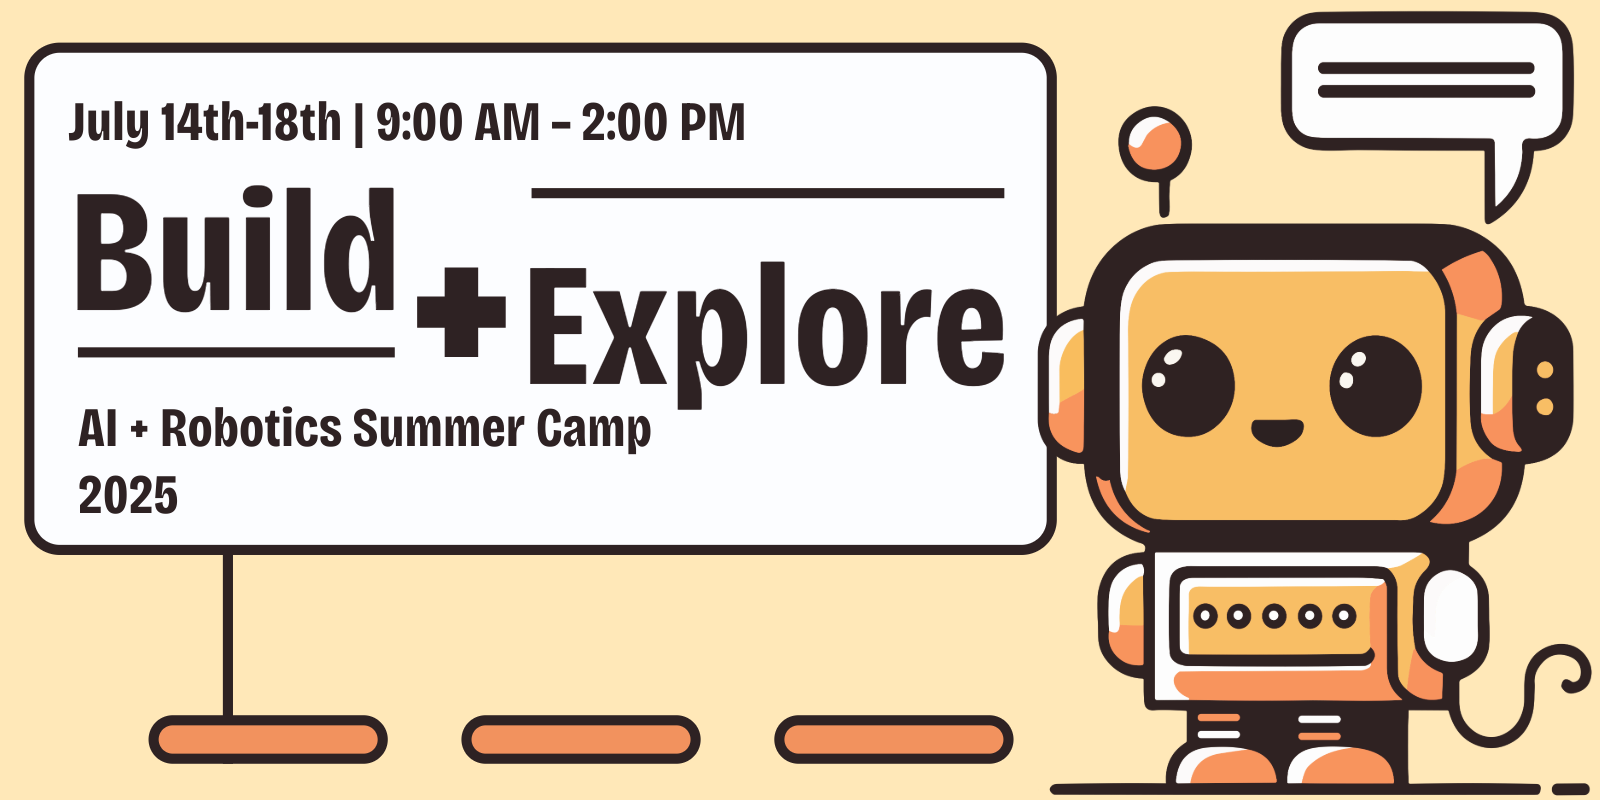
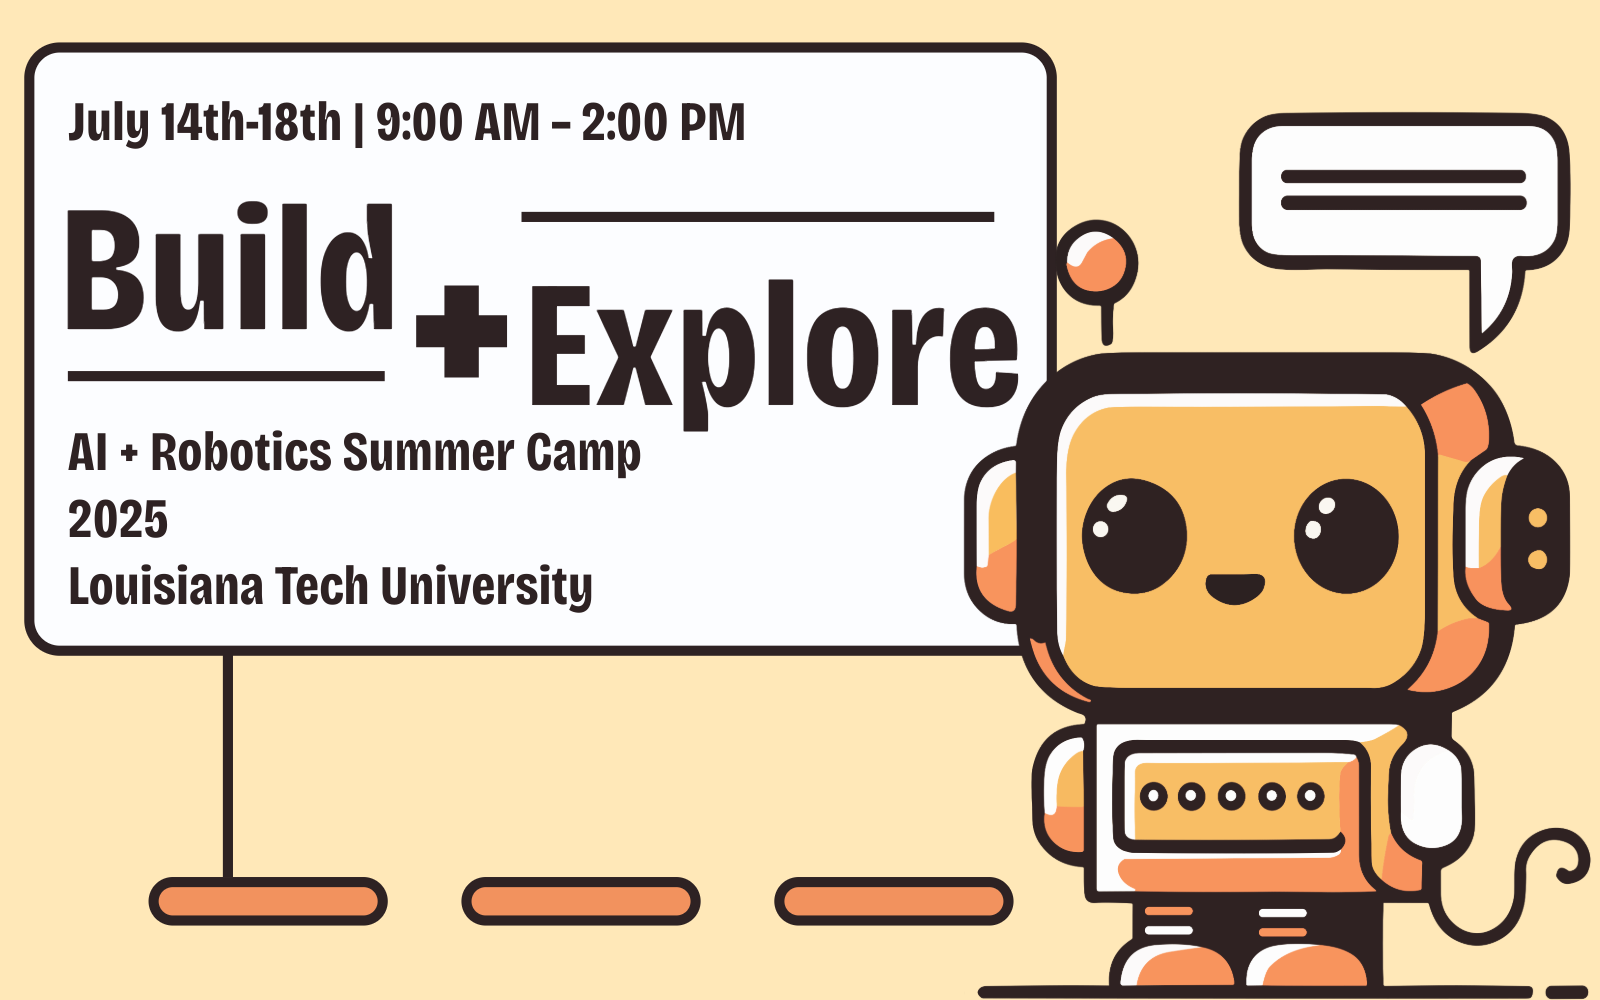
edit index

diff --git a/index.html b/index.html
@@ -270,8 +270,11 @@
                             <!--July 2025-->
                             <tr>
                               <td style="padding:20px;width:25%;vertical-align:middle">
-                                <div class="three">
-                                  <img src='images/news/2025/vertical_poster.png' width=160>
+                                <div class="three image-slider">
+                                  <button class="slider-btn prev-btn">&#10094;</button>
+                                  <img src="images/news/2025/vertical_poster.png" class="slider-img active">
+                                  <img src="images/news/2025/group_photo.png" class="slider-img">
+                                  <button class="slider-btn next-btn">&#10095;</button>
                                 </div>
                               </td>
 
@@ -282,11 +285,11 @@
                                       <span class="papertitle">July 2025</span>
                                     </div>
                                     <div style="margin-top: 0.5em;">
-                                      <li style="margin: 0;">
-                                        📄 <strong>07-03</strong>: Our <b><i>Paper</i></b> on polymer recovery stress prediction is accepted on <a href="https://www.sciencedirect.com/journal/polymer">Polymer</a>
-                                      </li>
                                       <li>
                                         🎤 <strong>07-14</strong>: We host a <b><i>Robotic Summer Camp</i></b> at LaTech in 2025.
+                                      </li>
+                                      <li style="margin: 0;">
+                                        📄 <strong>07-16</strong>: Our <b><i>Paper</i></b> on polymer recovery stress prediction is published on <a href="https://www.sciencedirect.com/journal/polymer">Polymer</a>.
                                       </li>
                                     </div>
                                   </div>
@@ -298,7 +301,7 @@
                             <tr>
                               <td style="padding:20px;width:25%;vertical-align:middle">
                                 <div class="three">
-                                  <img src='images/news/2025/ieee_logo.png' width=160>
+                                  <img src='images/news/2025/research_talk.png' width=160>
                                 </div>
                               </td>
 
@@ -325,8 +328,11 @@
                             <!--April 2025-->
                             <tr>
                               <td style="padding:20px;width:25%;vertical-align:middle">
-                                <div class="three">
-                                  <img src='images/news/2025/medium_cover.png' width=160>
+                                <div class="three image-slider">
+                                  <button class="slider-btn prev-btn">&#10094;</button>
+                                  <img src="images/news/2025/medium_cover.png" class="slider-img active">
+                                  <img src="images/news/2025/funding_projects.png" class="slider-img">
+                                  <button class="slider-btn next-btn">&#10095;</button>
                                 </div>
                               </td>
 
@@ -360,8 +366,12 @@
                             <!--March 2025-->
                             <tr>
                               <td style="padding:20px;width:25%;vertical-align:middle">
-                                <div class="three">
-                                  <img src='images/news/2025/panel_talk.png' width=160>
+                                <div class="three image-slider">
+                                  <button class="slider-btn prev-btn">&#10094;</button>
+                                  <img src="images/news/2025/panel_talk.png" class="slider-img active">
+                                  <img src="images/news/2025/mdpi_math.png" class="slider-img">
+                                  <img src="images/news/2025/airc_conference.png" class="slider-img">
+                                  <button class="slider-btn next-btn">&#10095;</button>
                                 </div>
                               </td>
 
@@ -396,8 +406,11 @@
                             <!--Feb 2025-->
                             <tr>
                               <td style="padding:20px;width:25%;vertical-align:middle">
-                                <div class="three">
-                                  <img src='images/news/2025/fuel_logo.png' width=160>
+                                <div class="three image-slider">
+                                  <button class="slider-btn prev-btn">&#10094;</button>
+                                  <img src="images/news/2025/fuel_logo.png" class="slider-img active">
+                                  <img src="images/news/2025/ieee_southeastcon.png" class="slider-img">
+                                  <button class="slider-btn next-btn">&#10095;</button>
                                 </div>
                               </td>
 
@@ -426,8 +439,11 @@
                             <!--Jan 2025-->
                             <tr>
                               <td style="padding:20px;width:25%;vertical-align:middle">
-                                <div class="three">
-                                  <img src='images/news/2025/elsevier_logo.png' width=160>
+                                <div class="three image-slider">
+                                  <button class="slider-btn prev-btn">&#10094;</button>
+                                  <img src="images/news/2025/elsevier_logo.png" class="slider-img active">
+                                  <img src="images/news/2025/fuel_logo.png" class="slider-img">
+                                  <button class="slider-btn next-btn">&#10095;</button>
                                 </div>
                               </td>
 
@@ -512,8 +528,11 @@
                             <!--June 2024-->
                             <tr>
                               <td style="padding:20px;width:25%;vertical-align:middle">
-                                <div class="three">
-                                  <img src='images/news/2024/laspace_logo.png' width=160>
+                                <div class="three image-slider">
+                                  <button class="slider-btn prev-btn">&#10094;</button>
+                                  <img src="images/news/2024/sunzid_defense.png" class="slider-img active">
+                                  <img src="images/news/2024/laspace_logo.png" class="slider-img">
+                                  <button class="slider-btn next-btn">&#10095;</button>
                                 </div>
                               </td>
 
@@ -539,8 +558,12 @@
                             <!--April 2024-->
                             <tr>
                               <td style="padding:20px;width:25%;vertical-align:middle">
-                                <div class="three">
-                                  <img src='images/news/2024/bor_logo.png' width=160>
+                                <div class="three image-slider">
+                                  <button class="slider-btn prev-btn">&#10094;</button>
+                                  <img src="images/news/2024/sensor_logo.png" class="slider-img active">
+                                  <img src="images/news/2024/ur2024.png" class="slider-img">
+                                  <img src="images/news/2024/bor_logo.png" class="slider-img">
+                                  <button class="slider-btn next-btn">&#10095;</button>
                                 </div>
                               </td>
 
@@ -1904,7 +1927,7 @@
                                 </p>
                               
                                 <p style="text-align: center;">
-                                  Ph.D. in EE
+                                  Ph.D. in CS
                                 </p>
                               </td>
                             </tr>
@@ -1926,40 +1949,7 @@
                         <table style="width:100%;border:0px;border-spacing:0px;border-collapse:separate;margin-right:auto;margin-left:auto;">
                           <tbody>
                             <tr style="padding:0px">
-
-                              
-                              <td style="padding:2.5%;width:25%;max-width:25%;">
-                                <img 
-                                  style="width:80%; max-width:80%; object-fit: cover; border-radius: 50%; display: block; margin: 0 auto;" 
-                                  alt="profile photo" 
-                                  src="images/profile_images/Hannah.png" 
-                                  class="hoverZoomLink">
-                              
-                                <p style="text-align: center;">
-                                  <strong><a href="https://www.linkedin.com/in/hannah-mcpherson-01966a25a/" target="_blank">Hannah McPherson</a></strong>
-                                </p>
-                              
-                                <p style="text-align: center;">
-                                  B.S. in EE
-                                </p>
-                              </td>
-                              
-                              <td style="padding:2.5%;width:25%;max-width:25%;">
-                                <img 
-                                  style="width:80%; max-width:80%; object-fit: cover; border-radius: 50%; display: block; margin: 0 auto;" 
-                                  alt="profile photo" 
-                                  src="images/profile_images/norma.png" 
-                                  class="hoverZoomLink">
-                              
-                                <p style="text-align: center;">
-                                  <strong><a href="https://www.linkedin.com/in/norma-olinde-925875234/" target="_blank">Norma Olinde</a></strong>
-                                </p>
-                              
-                                <p style="text-align: center;">
-                                  B.S. in EE
-                                </p>
-                              </td>
-                              
+                            
                               <td style="padding:2.5%;width:25%;max-width:25%;">
                                 <img 
                                   style="width:80%; max-width:80%; object-fit: cover; border-radius: 50%; display: block; margin: 0 auto;" 
@@ -1992,9 +1982,6 @@
                                   B.S. in EE
                                 </p>
                               </td>
-                            </tr>
-
-                            <tr style="padding:0px">
 
                               <td style="padding:2.5%;width:25%;max-width:25%;">
                                 <img 
@@ -2028,11 +2015,12 @@
                                 </p>
                               </td>
 
+                              <!-- <td style="padding:2.5%;width:25%;max-width:25%">
+                                <img style="width:80%;max-width:80%;object-fit: cover; border-radius: 50%;" alt="profile photo" src="images//profile_images/blank.png" class="hoverZoomLink">
+                              </td>
                               <td style="padding:2.5%;width:25%;max-width:25%">
                                 <img style="width:80%;max-width:80%;object-fit: cover; border-radius: 50%;" alt="profile photo" src="images//profile_images/blank.png" class="hoverZoomLink">
-                                <!-- <p style="text-indent: 30px;"><strong>Hoang My Le</strong></p>
-                                <p style="text-indent: 40px;">B.S. in EE</p> -->
-                              </td>
+                              </td> -->
 
                             </tr>
                           </tbody>
@@ -2085,15 +2073,38 @@
                                 </p>
                               </td>
 
-                              <td style="padding:2.5%;width:25%;max-width:25%">
-                                <img style="width:80%;max-width:80%;object-fit: cover; border-radius: 50%;" alt="profile photo" src="images//profile_images/blank.png" class="hoverZoomLink">
-                                <!-- <p style="text-indent: 30px;"><strong>Hoang My Le</strong></p>
-                                <p style="text-indent: 40px;">B.S. in EE</p> -->
+                              <td style="padding:2.5%;width:25%;max-width:25%;">
+                                <img 
+                                  style="width:80%; max-width:80%; object-fit: cover; border-radius: 50%; display: block; margin: 0 auto;" 
+                                  alt="profile photo" 
+                                  src="images/profile_images/Hannah.png" 
+                                  class="hoverZoomLink">
+                              
+                                <p style="text-align: center;">
+                                  <strong><a href="https://www.linkedin.com/in/hannah-mcpherson-01966a25a/" target="_blank">Hannah McPherson</a></strong>
+                                </p>
+                              
+                                <p style="text-align: center;">
+                                  2025 B.S. in EE<br>
+                                  Now at Albemarle Inc.
+                                </p>
                               </td>
-                              <td style="padding:2.5%;width:25%;max-width:25%">
-                                <img style="width:80%;max-width:80%;object-fit: cover; border-radius: 50%;" alt="profile photo" src="images//profile_images/blank.png" class="hoverZoomLink">
-                                <!-- <p style="text-indent: 30px;"><strong>Hoang My Le</strong></p>
-                                <p style="text-indent: 40px;">B.S. in EE</p> -->
+                              
+                              <td style="padding:2.5%;width:25%;max-width:25%;">
+                                <img 
+                                  style="width:80%; max-width:80%; object-fit: cover; border-radius: 50%; display: block; margin: 0 auto;" 
+                                  alt="profile photo" 
+                                  src="images/profile_images/norma.png" 
+                                  class="hoverZoomLink">
+                              
+                                <p style="text-align: center;">
+                                  <strong><a href="https://www.linkedin.com/in/norma-olinde-925875234/" target="_blank">Norma Olinde</a></strong>
+                                </p>
+                              
+                                <p style="text-align: center;">
+                                  2025 B.S. in EE<br>
+                                    
+                                </p>
                               </td>
                             </tr>
                           </tbody>
@@ -4985,7 +4996,7 @@
                 <td style="padding:0px">
                   <br>
                   <p style="text-align:center;font-size:small;">
-                    Updated in 07-03-2025 | <a href="https://github.com/jonbarron/jonbarron_website">Website Template</a> 
+                    Updated in 08-06-2025 | <a href="https://github.com/jonbarron/jonbarron_website">Website Template</a> 
                   </p>
                 </td>
               </tr>
@@ -5054,6 +5065,39 @@
         $('#year-title').show();
         applyCombinedFilter();
       });
+
+      // sliding pictures
+      document.querySelectorAll(".image-slider").forEach(slider => {
+          const images = slider.querySelectorAll(".slider-img");
+          const prev = slider.querySelector(".prev-btn");
+          const next = slider.querySelector(".next-btn");
+          let index = 0;
+
+          const showImage = (i) => {
+            images.forEach((img, idx) => {
+              if (idx === i) {
+                img.classList.add("active");
+              } else {
+                img.classList.remove("active");
+              }
+            });
+          };
+
+          const nextImage = () => {
+            index = (index + 1) % images.length;
+            showImage(index);
+          };
+
+          const prevImage = () => {
+            index = (index - 1 + images.length) % images.length;
+            showImage(index);
+          };
+
+          next.addEventListener("click", nextImage);
+          prev.addEventListener("click", prevImage);
+
+          showImage(index);
+        });
     </script>
   </body>
 </html>

diff --git a/stylesheet.css b/stylesheet.css
@@ -201,3 +201,74 @@ span.highlight {
   display: block;
   margin: 0 auto;
 }
+
+.image-slider {
+  position: relative;
+  width: 160px;
+  height: 100px;
+  overflow: hidden;
+}
+
+.slider-img {
+  position: absolute;
+  top: 0;
+  left: 0;
+  width: 100%;
+  height: auto;
+  opacity: 0;
+  transition: opacity 0.6s ease-in-out;
+  z-index: 0;
+}
+
+.slider-img.active {
+  opacity: 1;
+  z-index: 1;
+}
+
+.slider-btn {
+  position: absolute;
+  top: 50%;
+  transform: translateY(-50%);
+  width: 30px;
+  height: 30px;
+  border: none;
+  border-radius: 50%;
+  background-color: rgba(255, 255, 255, 0.8);
+  color: #333;
+  font-size: 18px;
+  font-weight: bold;
+  line-height: 30px;
+  text-align: center;
+  cursor: pointer;
+  z-index: 10;
+  opacity: 0;
+  transition: opacity 0.2s ease-in-out;
+  box-shadow: 0 1px 4px rgba(0,0,0,0.2);
+}
+
+.image-slider:hover .slider-btn {
+  opacity: 1;
+}
+
+.prev-btn {
+  left: 5px;
+}
+
+.next-btn {
+  right: 5px;
+}
+
+@media (max-width: 600px) {
+  .image-slider {
+    width: 100px;
+    height: auto;
+    margin: 0 auto;
+  }
+
+  .slider-btn {
+    width: 26px;
+    height: 26px;
+    font-size: 16px;
+    line-height: 26px;
+  }
+}
